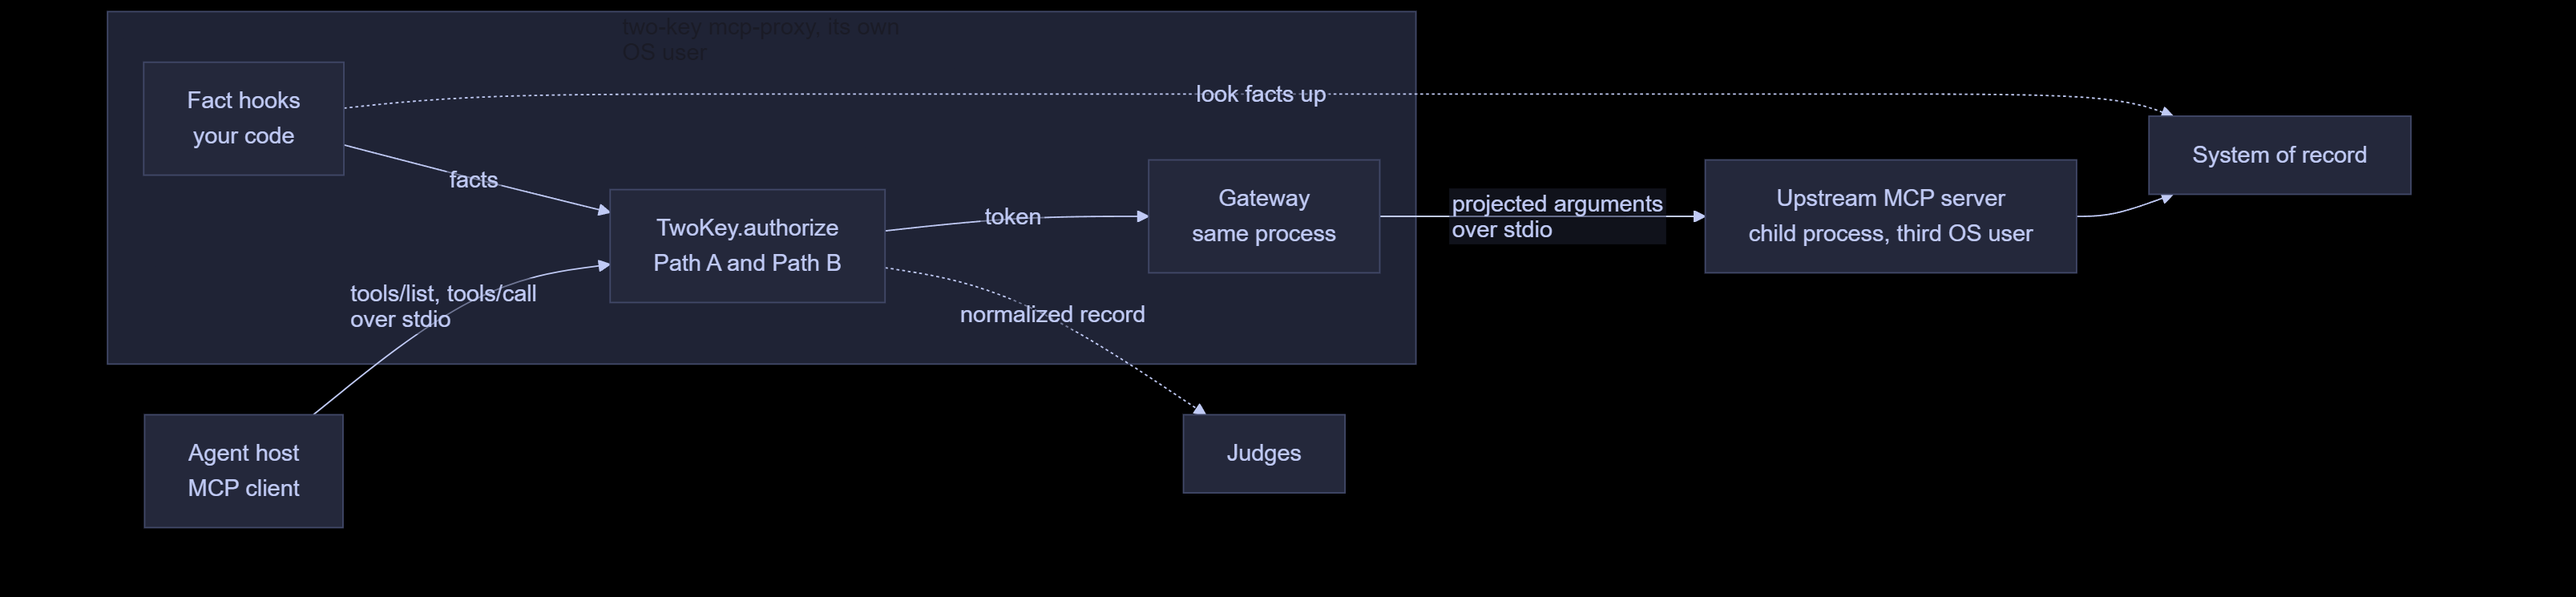
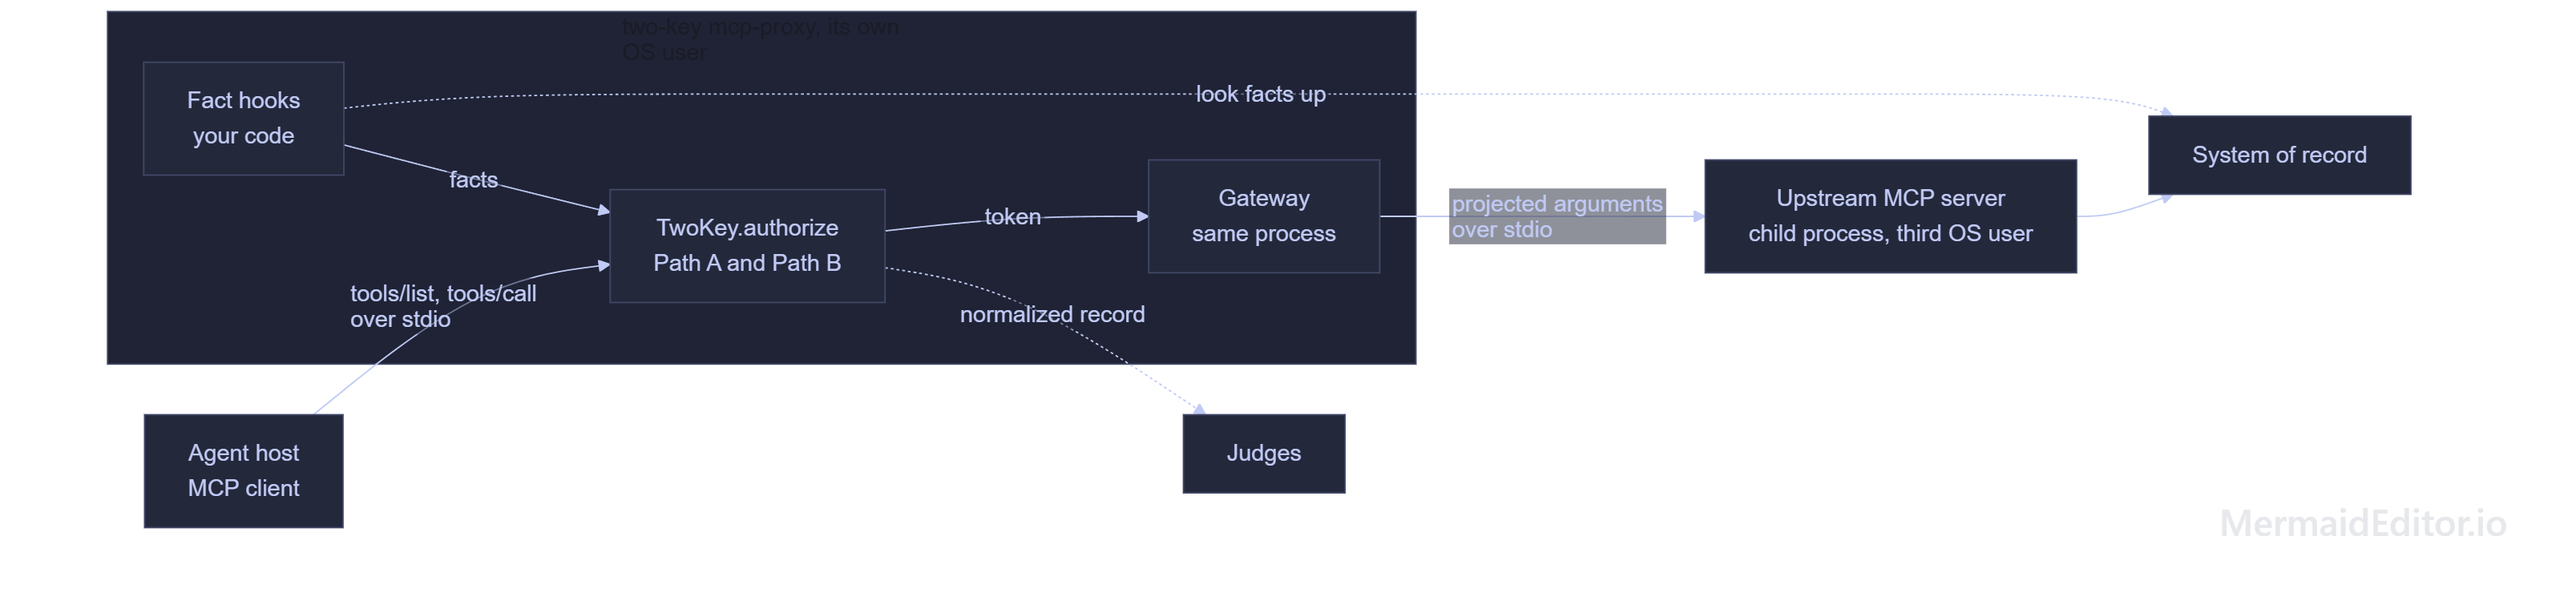
Keep the editor mark on the four exported diagrams.
Same pictures as the last replacement, with the MermaidEditor.io
corner left in place.

diff --git a/CHANGES.md b/CHANGES.md
@@ -3845,3 +3845,5 @@ unregistered on pypi.org and test.pypi.org on this date.
 - Four of those pictures were replaced with exports of the same diagrams:
   the authorization flow, the version line, the authorization sequence, and
   the MCP proxy. The editor watermark is not in the files.
+- Those four pictures were replaced again from the exports, and the
+  MermaidEditor.io mark in the corner is kept.
